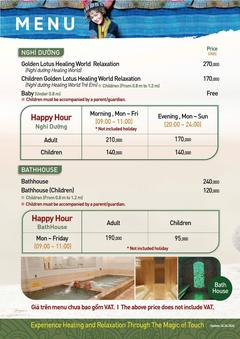
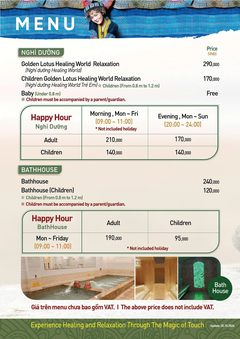
Menu Q2 trang 1: cập nhật bản 20.10.2026 (Nghỉ dưỡng 290k)
Claude-Session: https://claude.ai/code/session_01GxtYmdeGZ6kBvNhvtJ7Mhq

diff --git a/sw.js b/sw.js
@@ -1,6 +1,6 @@
 /* Service worker — network-first cho nội dung, cache chỉ dùng khi offline.
    Nhờ vậy mỗi lần deploy bản mới là nhân viên thấy ngay, không cần xoá cache. */
-const CACHE = 'glh-ontap-v13';
+const CACHE = 'glh-ontap-v14';
 const SHELL = ['./', './index.html', './data.js', './offers.js', './branches.js', './menus.js', './concepts.js', './membership.js', './manifest.webmanifest',
                './icon-192.png', './icon-512.png', './apple-touch-icon.png'];
 

diff --git a/menus.js b/menus.js
@@ -5,7 +5,7 @@
                                  <chi-nhanh>-<so>-t.jpg (ảnh nhỏ, rộng 240px)
    Thay menu mới: ghi đè ảnh cùng tên rồi TĂNG MENU_VER để máy nhân viên tải lại.
    ========================================================================== */
-const MENU_VER = '20260929';
+const MENU_VER = '20261031';
 const MENUS = {
   Q1: [
     { f:'q1-1', cap:'Bathhouse · Skin Care · Facial' },
